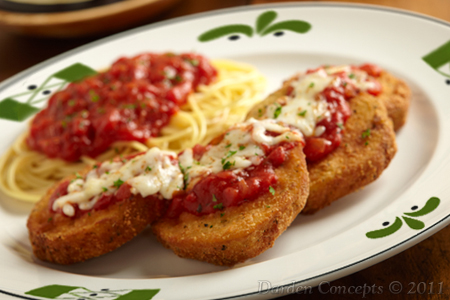
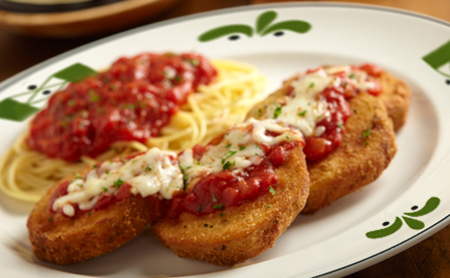
Finish menu page

diff --git a/src/data/menu.ts b/src/data/menu.ts
@@ -1,0 +1,94 @@
+import type MenuItem from "@/types/menu";
+
+const menuData: Array<Array<MenuItem>> = [
+  [
+    {
+      name: "Tomato Bruschetta",
+      price: "$18.00",
+      image: 7,
+    },
+    {
+      name: "Zucchini Fritters",
+      price: "$20.00",
+      image: 8,
+    },
+    {
+      name: "(V) Vegan Arancini",
+      price: "$22.00",
+      image: 9,
+    },
+    {
+      name: "Stuffed Mushrooms",
+      price: "$21.00",
+      image: 11,
+    },
+  ],
+  [
+    {
+      name: "Gnocchi with Truffle",
+      price: "$24.00",
+      image: 12,
+    },
+    {
+      name: "Pasta alla Norma",
+      price: "$26.00",
+      image: 13,
+    },
+    {
+      name: "(V) Vegan Carbonara",
+      price: "$22.00",
+      image: 14,
+    },
+    {
+      name: "Risotto with Peas",
+      price: "$25.00",
+      image: 15,
+    },
+  ],
+  [
+    {
+      name: "(V) Eggplant Parmigiana",
+      price: "$29.00",
+      image: 10,
+    },
+    {
+      name: "Pappa al Pomodoro",
+      price: "$25.00",
+      image: 16,
+    },
+    {
+      name: "Mushrooms and Polenta",
+      price: "$23.00",
+      image: 17,
+    },
+    {
+      name: "Panzanella Salad",
+      price: "$22.00",
+      image: 18,
+    },
+  ],
+  [
+    {
+      name: "(V) Tiramisu",
+      price: "$18.00",
+      image: 19,
+    },
+    {
+      name: "(V) Almond Biscotti",
+      price: "$16.00",
+      image: 20,
+    },
+    {
+      name: "Panna Cotta",
+      price: "$22.00",
+      image: 21,
+    },
+    {
+      name: "Zeppole",
+      price: "$18.00",
+      image: 22,
+    },
+  ],
+];
+
+export default menuData;

diff --git a/src/app/page.tsx b/src/app/page.tsx
@@ -96,24 +96,24 @@ export default function Home() {
 
         <hr className="border-secondary w-full my-20"></hr>
 
-        <div className="flex w-[90%] flex-col items-center" data-aos="fade-up">
+        <div className="flex w-[90%] flex-col items-center mb-20" data-aos="fade-up">
           <p className="text-4xl mb-8">
             Renowned restaurant with 3 Michelin Stars.
           </p>
           <div className="flex w-full justify-evenly items-center">
             <div className="flex flex-col justify-center items-center">
               <Icon path={mdiStar} size={4} className="text-accent"></Icon>
-              <p className="text-2xl">1962</p>
+              <p className="text-3xl">1962</p>
             </div>
 
             <div className="flex flex-col justify-center items-center">
               <Icon path={mdiStar} size={4} className="text-accent"></Icon>
-              <p className="text-2xl">2003</p>
+              <p className="text-3xl">2003</p>
             </div>
 
             <div className="flex flex-col justify-center items-center">
               <Icon path={mdiStar} size={4} className="text-accent"></Icon>
-              <p className="text-2xl">2017</p>
+              <p className="text-3xl">2017</p>
             </div>
           </div>
         </div>

diff --git a/src/components/MenuRow.tsx b/src/components/MenuRow.tsx
@@ -1,0 +1,25 @@
+import menuData from "@/data/menu";
+import Image from "next/image";
+
+export default function MenuRow({ rowNumber }: { rowNumber: number }) {
+  return (
+    <div
+      className="flex w-full justify-evenly flex-wrap gap-4"
+      data-aos="fade-up"
+    >
+      {menuData[rowNumber].map((item, index) => (
+        <div className="flex flex-col items-center w-90" key={index}>
+          <div className="w-full aspect-square relative">
+            <Image
+              src={`/images/${item.image}.jpg`}
+              alt={`A picture of ${item.name}.`}
+              fill
+              className="object-cover rounded-sm"
+            />
+          </div>
+          <p className="text-lg uppercase w-full text-center mt-2">{`${item.name} - ${item.price}`}</p>
+        </div>
+      ))}
+    </div>
+  );
+}

diff --git a/src/app/menu/page.tsx b/src/app/menu/page.tsx
@@ -1,4 +1,6 @@
 import PageHeader from "@/components/PageHeader";
+import MenuRow from "@/components/MenuRow";
+import menuData from "@/data/menu";
 
 export default function Menu() {
   return (
@@ -7,6 +9,12 @@ export default function Menu() {
         heading="Menu"
         description="View our carefully hand-crafted menu where each dish pairs with another in an enjoyable explosion of flavor."
       />
+
+      <div className="flex flex-col items-center gap-8 mb-20">
+        {menuData.map((_, index) => (
+          <MenuRow key={index} rowNumber={index} />
+        ))}
+      </div>
     </div>
   );
 }

diff --git a/src/app/about/page.tsx b/src/app/about/page.tsx
@@ -10,7 +10,7 @@ export default function About() {
         description="Elevato is a restaurant with a history as rich as its dishes, a true culmination of culinary ingenuity. Read more about our story below."
       />
 
-      <div className="z-2 flex flex-col items-center mt-50 gap-6">
+      <div className="z-2 flex flex-col items-center gap-6">
         {timelineData.map((item, index) => (
           <TimelineNode
             key={index}

diff --git a/src/components/PageHeader.tsx b/src/components/PageHeader.tsx
@@ -8,7 +8,7 @@ export default function PageHeader({
   description: string;
 }) {
   return (
-    <div className="flex-1 relative">
+    <div className="flex-1 relative mb-50">
       <WavesContainer />
 
       <div className="flex flex-col justify-center ml-30 mt-60 w-135 z-1">

diff --git a/src/components/Footer.tsx b/src/components/Footer.tsx
@@ -1,6 +1,6 @@
 export default function Footer() {
   return (
-    <footer className="mt-10">
+    <footer>
       <hr className="border-accent" />
       Footer
     </footer>

diff --git a/src/types/menu.d.ts b/src/types/menu.d.ts
@@ -1,0 +1,5 @@
+export default interface MenuItem {
+  name: string;
+  price: string;
+  image: number;
+}
